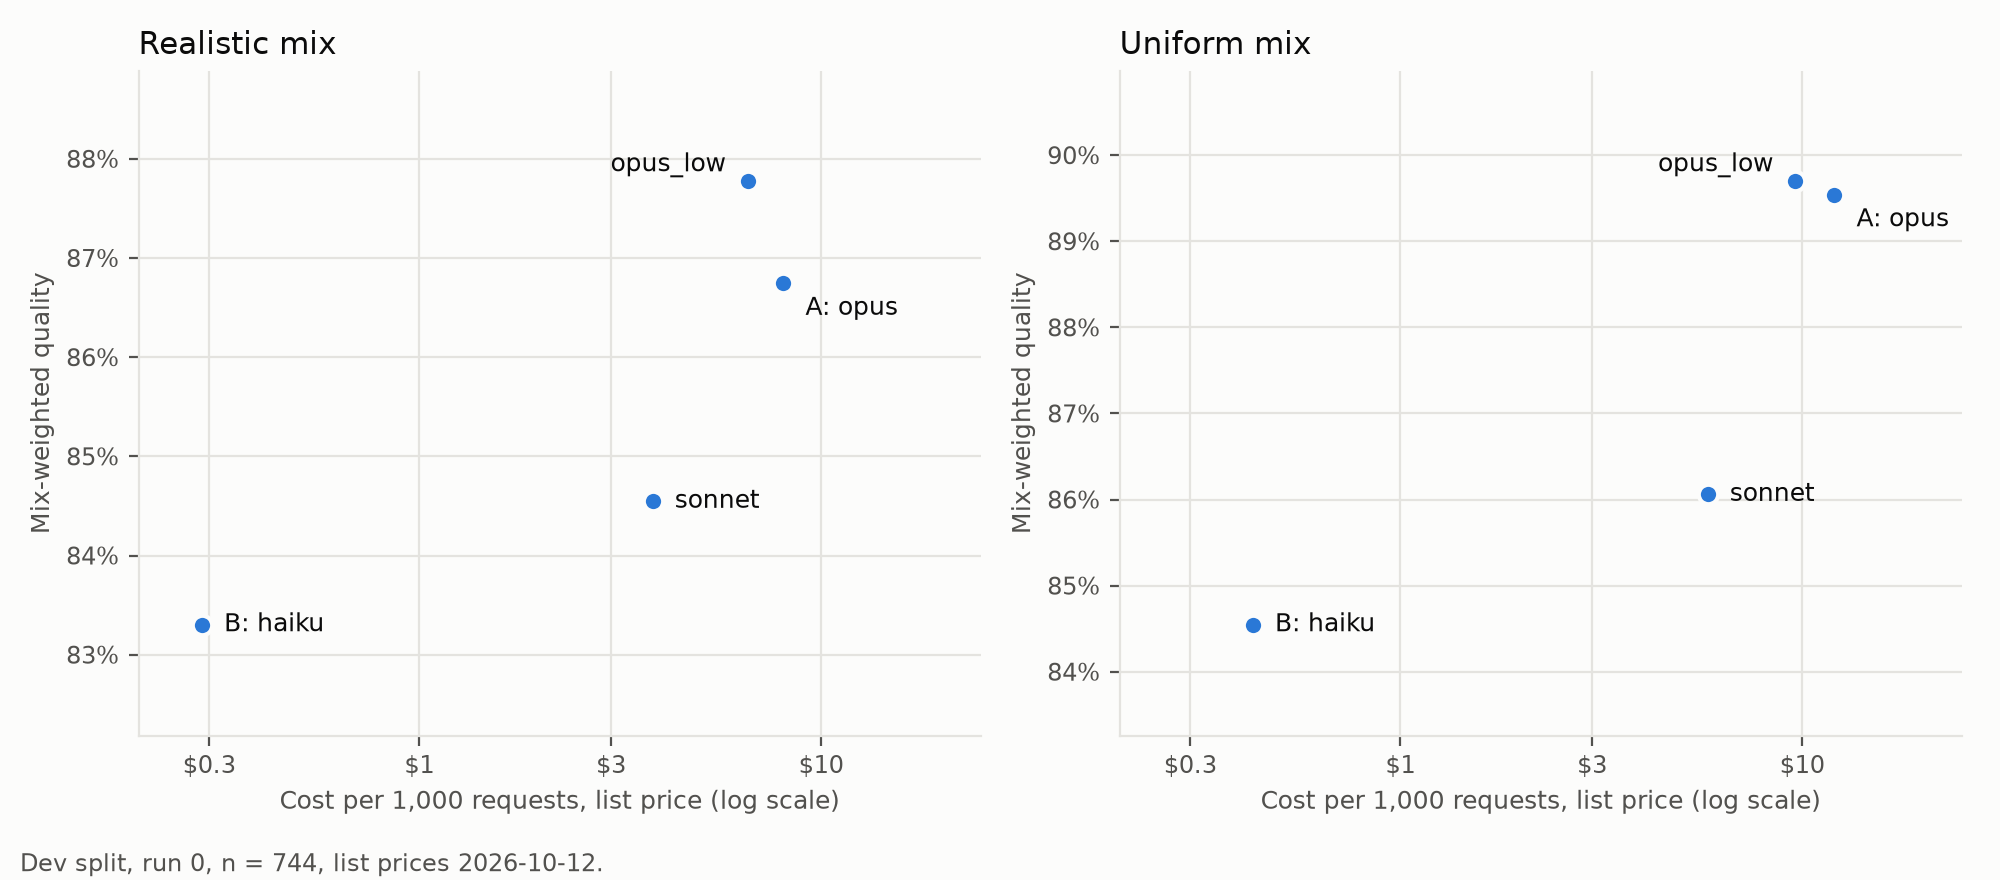
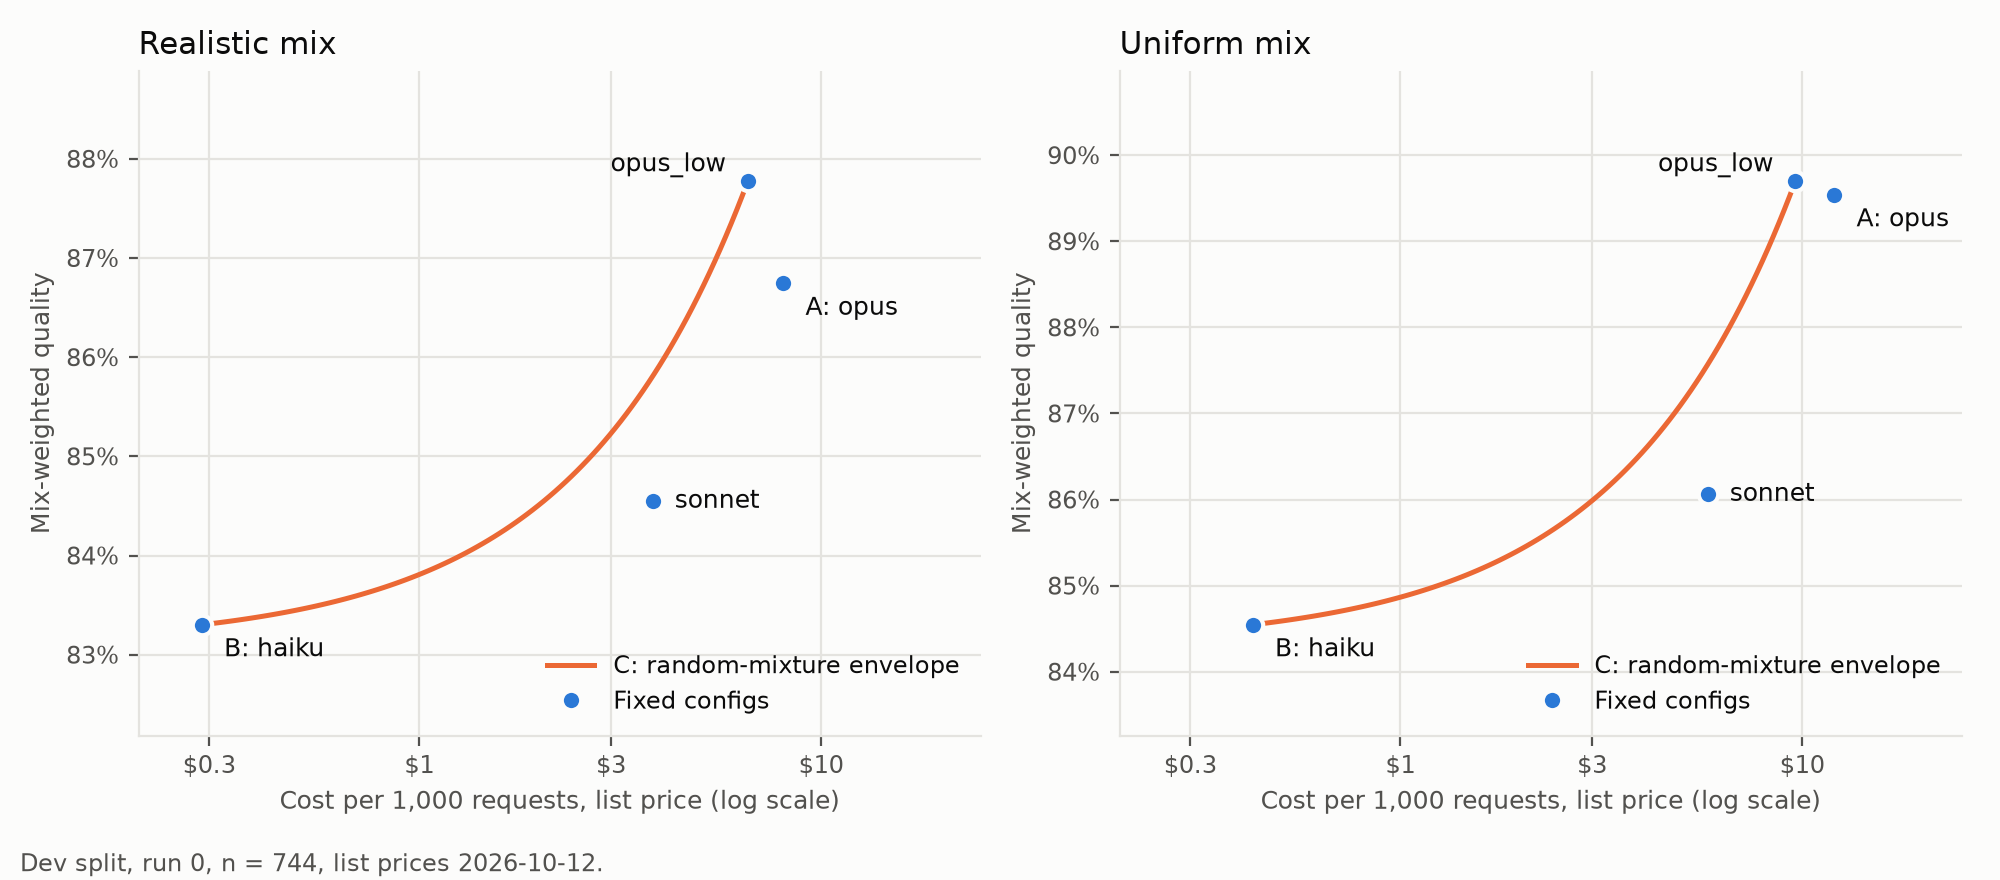
Add the random-mixture envelope (C) to chart v0
Stage 3 · 3 (#5). analysis/references.py adds a reference curve: corners
joined by straight lines in linear cost that answer both ways, the cost of
reaching a quality and the quality reachable at a cost, with n/a (None)
outside the curve's range (Amendment A8, item 7). The hindsight oracle (#6)
is meant to reuse it. A curve refuses corners whose quality or cost doesn't
rise, or that don't each name a config, with CurveError.

`envelope` builds reference C from the fixed-config points under a mix: it
climbs from the cheapest point to the steepest point above, so points below
the hull and points costlier with no higher quality drop out, and exact ties
go to the lower config (A8 item 5). On dev, under both mixes, it is one
segment from haiku to opus_low, with sonnet and opus below it.

The chart draws it as a curve on the log axis, sampled 100 points per
segment, labelled "C: random-mixture envelope" in a legend, and pareto.json
holds its corners per mix. check_simulator adds hand-worked curves, a
four-corner envelope, dropped points, a tie, a round trip, n/a past both
ends, each refusal, and the dev segment.

diff --git a/analysis/check_simulator.py b/analysis/check_simulator.py
@@ -13,7 +13,15 @@ On a synthetic matrix, where the right answer is worked out by hand:
   a config with no stored answer, calls no config or calls one twice, or calls opus on
   a train item (with its own refusal, even where no opus answer is stored), and
   evaluates none of the set;
-- a mix that doesn't weigh exactly the outcomes' tasks is refused.
+- a mix that doesn't weigh exactly the outcomes' tasks is refused;
+- a reference curve gives the cost at a quality and the quality at a cost along the
+  straight lines between its corners, both ends included, and n/a outside its range; it
+  refuses corners whose quality or cost doesn't rise, or that don't each name a config,
+  and the envelope refuses no points;
+- the random-mixture envelope keeps four corners where each config buys less quality
+  per dollar than the one below, drops a config below the hull and one costlier with no
+  higher quality, gives an exact tie's corner to the lower config, returns the starting
+  quality on a round trip, and gives n/a past both ends.
 
 On the dev results matrix:
 
@@ -26,6 +34,8 @@ On the dev results matrix:
 - the config ladder is the order of mean cost per request in every task and both
   mixes, and its per-item inversions and exact cost ties are as Amendment A8 item 5
   gives them;
+- under both mixes the envelope is one segment from haiku to opus_low, with sonnet and
+  opus below it, as Amendment A8 item 7 says;
 - a toy cascade (haiku, climbing to opus on MMLU-Pro and MBPP+) prints its per-task
   totals, each haiku's or opus's quality with the calls and gate it paid for, and its
   per-mix totals, each the mix's weighting of the per-task ones;
@@ -37,7 +47,10 @@ import sys
 from collections import Counter
 from itertools import combinations, pairwise
 
+import numpy as np
+
 from analysis.matrix import LADDER, Matrix, MatrixError, from_store, list_price, read_store
+from analysis.references import Curve, CurveError, envelope
 from analysis.simulator import (
     MixError,
     Total,
@@ -102,6 +115,11 @@ def toy_cascade(matrix: Matrix) -> list[Trace]:
 def same_total(total: Total, quality: float, cost_per_1k: float) -> bool:
     return math.isclose(total.quality, quality, abs_tol=1e-12) and math.isclose(total.cost_per_1k, cost_per_1k,
                                                                                 abs_tol=1e-12)  # fmt: skip
+
+
+def near(answer: float | None, expected: float) -> bool:
+    """A reference's answer is a number close to `expected`, not n/a (None)."""
+    return answer is not None and math.isclose(answer, expected, rel_tol=1e-9)
 
 
 def rounded(total: Total) -> tuple[str, str]:
@@ -181,6 +199,49 @@ def main() -> int:
             "opus on a train item with no opus answer gets the frontier refusal, not the no-stored-answer one",
             says="Amendment A1")  # fmt: skip
 
+    print("\n-- a reference curve, both ways --")
+    # Corners $1 80%, $3 86%, $7 90% per 1k: the first segment climbs 3 points a dollar, the second 1.
+    curve = Curve((Total(0.80, 1), Total(0.86, 3), Total(0.90, 7)), ("haiku", "sonnet", "opus_low"))
+    check(near(curve.cost_at(0.83), 2) and near(curve.cost_at(0.88), 5),
+          "cost at a quality, along the straight line between corners: 83% costs $2 per 1k, 88% costs $5")  # fmt: skip
+    check(near(curve.quality_at(2), 0.83) and near(curve.quality_at(5), 0.88),
+          "quality at a cost: $2 per 1k reaches 83%, $5 reaches 88%")  # fmt: skip
+    check((curve.cost_at(0.80), curve.cost_at(0.90), curve.quality_at(1), curve.quality_at(7)) == (1, 7, 0.80, 0.90),
+          "both ends are in range: the first and last corners answer with each other's coordinate")  # fmt: skip
+    check((curve.cost_at(0.79), curve.cost_at(0.91), curve.quality_at(0.99), curve.quality_at(7.01)) == (None,) * 4,
+          "a query outside the curve's range gives n/a (None), below it and above it, both ways")  # fmt: skip
+    refuses(CurveError, lambda: Curve((Total(0.80, 1), Total(0.86, 3), Total(0.85, 7)), ("haiku", "sonnet", "opus")),
+            "a curve whose quality falls from one corner to the next is refused")  # fmt: skip
+    refuses(CurveError, lambda: Curve((Total(0.80, 1), Total(0.86, 1)), ("haiku", "sonnet")),
+            "a curve whose cost doesn't rise from one corner to the next is refused")  # fmt: skip
+    refuses(CurveError, lambda: Curve((Total(0.80, 1), Total(0.86, 3)), ("haiku",)),
+            "a curve that doesn't name one config per corner is refused")  # fmt: skip
+    refuses(CurveError, lambda: Curve((), ()), "a curve with no corners is refused")
+    refuses(CurveError, lambda: envelope({}), "the envelope of no config points is refused")
+
+    print("\n-- the random-mixture envelope on hand-worked points --")
+    # Each config up the ladder buys less quality per dollar: 6, 2, then 0.5 points per $1 per 1k.
+    bending = {"haiku": Total(0.80, 1), "sonnet": Total(0.86, 2), "opus_low": Total(0.90, 4), "opus": Total(0.92, 8)}
+    check(envelope(bending).configs == LADDER,
+          "four configs whose quality per dollar keeps falling are all corners: a four-corner envelope")  # fmt: skip
+    # Mixing haiku and opus_low half and half costs $3 per 1k for 85%, more than sonnet's 82% at $3.
+    # opus costs more than opus_low for the same 90%.
+    dropped = {"haiku": Total(0.80, 1), "sonnet": Total(0.82, 3), "opus_low": Total(0.90, 5), "opus": Total(0.90, 9)}
+    check(envelope(dropped).configs == ("haiku", "opus_low"),
+          "a config below the hull (sonnet) and one costlier with no higher quality (opus) are both dropped")  # fmt: skip
+    tied = {"sonnet": Total(0.80, 1), "haiku": Total(0.80, 1), "opus": Total(0.90, 5)}
+    check(envelope(tied).configs == ("haiku", "opus"),
+          "two configs at exactly the same point: the corner is the lower one on the ladder (A8 item 5)")  # fmt: skip
+    four_corners = envelope(bending)
+    qualities = [float(quality) for quality in np.linspace(0.80, 0.92, 25)]  # every corner and points between
+    check(all((paid := four_corners.cost_at(quality)) is not None and near(four_corners.quality_at(paid), quality)
+              for quality in qualities),
+          "a round trip, the cost at a quality and then the quality at that cost, returns the starting quality, "
+          "from 80% to 92% in steps of half a point")  # fmt: skip
+    past_ends = (four_corners.cost_at(0.7999), four_corners.cost_at(0.9201), four_corners.quality_at(0.999),
+                 four_corners.quality_at(8.001))  # fmt: skip
+    check(past_ends == (None,) * 4, "the envelope gives n/a below haiku's point and above opus's, both ways")
+
     print("\n-- the dev results matrix --")
     rows = read_store()
     prices = load_models()["prices"]
@@ -233,6 +294,22 @@ def main() -> int:
     check(pairs == A8_TIES and tasks["banking77"] == A8_TIES_BANKING77,
           f"exact cost ties between two configs on one item {dict(pairs)}, {tasks['banking77']} of them on "
           f"Banking77, as in Amendment A8 item 5")  # fmt: skip
+
+    print("\n-- the random-mixture envelope on dev --")
+    for mix in ("uniform", "realistic"):
+        points = {config: totals(fixed[config], mixes[mix]) for config in LADDER}
+        sonnet, opus_low, opus = points["sonnet"], points["opus_low"], points["opus"]
+        on_dev = envelope(points)
+        corners = ", ".join(f"{config} {quality}% ${cost}" for config, (quality, cost)
+                            in zip(on_dev.configs, map(rounded, on_dev.corners)))  # fmt: skip
+        check(on_dev.configs == ("haiku", "opus_low"),
+              f"{mix} mix: one segment, {corners} per 1k, as in Amendment A8 item 7")  # fmt: skip
+        reached = on_dev.quality_at(sonnet.cost_per_1k)
+        check(reached is not None and reached > sonnet.quality,
+              f"{mix} mix: sonnet falls below it: at sonnet's ${sonnet.cost_per_1k:.2f} per 1k the envelope reaches "
+              f"{100 * (reached or 0):.1f}%, sonnet {100 * sonnet.quality:.1f}%")  # fmt: skip
+        check(opus.cost_per_1k > opus_low.cost_per_1k and opus.quality < opus_low.quality,
+              f"{mix} mix: opus falls below it, costing more than opus_low for less quality")  # fmt: skip
 
     print("\n-- a toy cascade on dev --")
     outcomes = simulate(dev, toy_cascade(dev))

diff --git a/analysis/pareto.py b/analysis/pareto.py
@@ -3,22 +3,26 @@
 Run from the project root:  uv run python -m analysis.pareto
 
 Evaluates the four fixed configs as policies through the simulator, on dev (run 0),
-and totals them under both task mixes. Prints the totals and draws the headline
-figure: a realistic and a uniform panel, cost per 1,000 requests at list price on a
-log x-axis and mix-weighted quality on y. Writes figures/pareto.png and, with every
-plotted number, figures/pareto.json. Both are committed and overwritten as later
-stages add to the chart.
+and totals them under both task mixes, with reference C, the random-mixture envelope
+of their points (Amendment A8, item 7). Prints the totals and the envelope's corners
+and draws the headline figure: a realistic and a uniform panel, cost per 1,000
+requests at list price on a log x-axis and mix-weighted quality on y. Writes
+figures/pareto.png and, with every plotted number, figures/pareto.json. Both are
+committed and overwritten as later stages add to the chart.
 """
 
 import json
 import sys
 from dataclasses import asdict
+from itertools import pairwise
 from pathlib import Path
 
+import numpy as np
 from matplotlib.figure import Figure
 from matplotlib.ticker import FixedLocator, FuncFormatter, NullLocator, PercentFormatter
 
 from analysis.matrix import LADDER, Matrix, load
+from analysis.references import Curve, envelope
 from analysis.simulator import Total, always, load_mixes, simulate, totals
 from harness.client import PROJECT_ROOT, load_models
 from harness.run_pilot import print_table
@@ -27,11 +31,14 @@ FIGURES = PROJECT_ROOT / "figures"
 FIGURE, FIGURE_DATA = FIGURES / "pareto.png", FIGURES / "pareto.json"  # the headline figure and its plotted numbers
 PANELS = ("realistic", "uniform")
 LABELS = {"haiku": "B: haiku", "sonnet": "sonnet", "opus_low": "opus_low", "opus": "A: opus"}
-# Label offsets in points, so opus_low and opus, close together on both axes, don't collide.
-OFFSETS = {"haiku": (8, 0, "left"), "sonnet": (8, 0, "left"), "opus_low": (-8, 6, "right"), "opus": (8, -9, "left")}
+# Label offsets in points, so opus_low and opus, close together on both axes, don't collide, and haiku's label sits
+# below the envelope, which leaves haiku's point rising to the right.
+OFFSETS = {"haiku": (8, -9, "left"), "sonnet": (8, 0, "left"), "opus_low": (-8, 6, "right"), "opus": (8, -9, "left")}
 
-# The data-viz reference palette's light surface and inks; the config points are series 1.
-SURFACE, INK, INK_SECONDARY, GRID, SERIES_1 = "#fcfcfb", "#0b0b0b", "#52514e", "#e4e3df", "#2a78d6"
+# The data-viz reference palette's light surface and inks; the config points are series 1, the envelope series 2.
+SURFACE, INK, INK_SECONDARY, GRID = "#fcfcfb", "#0b0b0b", "#52514e", "#e4e3df"
+SERIES_1, SERIES_2 = "#2a78d6", "#eb6834"
+ENVELOPE_LABEL = "C: random-mixture envelope"
 
 
 def config_points(dev: Matrix, mixes: dict) -> dict[str, dict[str, Total]]:
@@ -40,13 +47,26 @@ def config_points(dev: Matrix, mixes: dict) -> dict[str, dict[str, Total]]:
     return {mix: {config: totals(outcomes[config], mixes[mix]) for config in LADDER} for mix in PANELS}
 
 
-def draw(points: dict[str, dict[str, Total]], caption: str, path: Path) -> None:
+def sampled(curve: Curve) -> tuple[list[float], list[float | None]]:
+    """Points along a reference curve for the log cost axis, where its straight segments in linear cost bend.
+
+    Each segment gets 100 evenly spaced samples on the log axis, so a short one is drawn as finely as a long one.
+    """
+    costs = [curve.corners[0].cost_per_1k]
+    for low, high in pairwise(curve.corners):
+        costs += [float(cost) for cost in np.geomspace(low.cost_per_1k, high.cost_per_1k, 100)[1:]]
+    return costs, [curve.quality_at(cost) for cost in costs]
+
+
+def draw(points: dict[str, dict[str, Total]], envelopes: dict[str, Curve], caption: str, path: Path) -> None:
     fig = Figure(figsize=(10, 4.4), dpi=200, facecolor=SURFACE)
     for ax, mix in zip(fig.subplots(1, 2), PANELS):
         ax.set_facecolor(SURFACE)
+        ax.plot(*sampled(envelopes[mix]), color=SERIES_2, linewidth=1.8, zorder=2, label=ENVELOPE_LABEL)
+        ax.plot([total.cost_per_1k for total in points[mix].values()], [total.quality for total in points[mix].values()],
+                "o", markersize=7, color=SERIES_1, markeredgecolor=SURFACE, markeredgewidth=1.5, zorder=3,
+                label="Fixed configs")  # fmt: skip
         for config, total in points[mix].items():
-            ax.plot(total.cost_per_1k, total.quality, "o", markersize=7, color=SERIES_1, markeredgecolor=SURFACE,
-                    markeredgewidth=1.5, zorder=3)  # fmt: skip
             dx, dy, ha = OFFSETS[config]
             ax.annotate(LABELS[config], (total.cost_per_1k, total.quality), xytext=(dx, dy), textcoords="offset points",
                         ha=ha, va="center", fontsize=9, color=INK)  # fmt: skip
@@ -67,6 +87,7 @@ def draw(points: dict[str, dict[str, Total]], caption: str, path: Path) -> None:
             ax.spines[side].set_visible(False)
         for side in ("left", "bottom"):
             ax.spines[side].set_color(GRID)
+        ax.legend(loc="lower right", frameon=False, fontsize=8.5, labelcolor=INK)
     fig.text(0.01, 0.01, caption, fontsize=8.5, color=INK_SECONDARY)
     fig.tight_layout(rect=(0, 0.04, 1, 1))
     fig.savefig(path, facecolor=SURFACE)
@@ -76,23 +97,31 @@ def main() -> int:
     dev = load().split("dev")
     snapshot = load_models()["price_snapshot"]
     points = config_points(dev, load_mixes())
+    envelopes = {mix: envelope(points[mix]) for mix in PANELS}
     basis = f"run 0, n = {len(dev.items)}, list prices {snapshot}"
 
     print(f"Fixed configs on dev ({basis}): quality, $ per 1,000 requests")
     rows = [[LABELS[c]] + [f"{100 * points[m][c].quality:.1f}%  ${points[m][c].cost_per_1k:.2f}" for m in PANELS]
             for c in LADDER]  # fmt: skip
     print_table(["config"] + list(PANELS), rows)
+    for mix, curve in envelopes.items():
+        corners = ", ".join(f"{config} ({100 * total.quality:.1f}%, ${total.cost_per_1k:.2f})"
+                            for config, total in zip(curve.configs, curve.corners))  # fmt: skip
+        print(f"{ENVELOPE_LABEL}, {mix} mix: {corners}")
 
     units = {
         "quality": "mix-weighted share of items answered correctly, 0 to 1",
         "cost_per_1k": "mix-weighted dollars per 1,000 requests, at list price",
+        "envelope": "the envelope's corners, cheapest first, joined by straight lines in linear cost",
     }
-    panels = {mix: {"configs": {c: asdict(t) for c, t in points[mix].items()}} for mix in PANELS}
+    panels = {mix: {"configs": {c: asdict(t) for c, t in points[mix].items()},
+                    "envelope": {c: asdict(t) for c, t in zip(envelopes[mix].configs, envelopes[mix].corners)}}
+              for mix in PANELS}  # fmt: skip
     data = {"figure": FIGURE.name, "built_by": "analysis/pareto.py", "split": "dev", "run": 0, "n": len(dev.items),
             "price_snapshot": snapshot, "units": units, "panels": panels}  # fmt: skip
     FIGURES.mkdir(exist_ok=True)
     FIGURE_DATA.write_text(json.dumps(data, indent=2) + "\n")
-    draw(points, f"Dev split, {basis}.", FIGURE)
+    draw(points, envelopes, f"Dev split, {basis}.", FIGURE)
     print(f"\nWrote {FIGURE.relative_to(PROJECT_ROOT)} and {FIGURE_DATA.relative_to(PROJECT_ROOT)}")
     return 0
 

diff --git a/analysis/references.py b/analysis/references.py
@@ -1,0 +1,80 @@
+"""Reference curves (PLAN_v4.md §7; Amendment A8, item 7).
+
+A reference curve is a set of corners, each a quality and a cost per 1,000 requests,
+joined by straight lines in linear cost. It answers both ways: the cost of reaching a
+quality, for the captured fraction, and the quality reachable at a cost, for comparisons
+at matched cost. A query outside the curve's range gives n/a, returned as None.
+"""
+
+from dataclasses import dataclass
+from itertools import pairwise
+
+import numpy as np
+
+from analysis.matrix import LADDER
+from analysis.simulator import Total
+
+
+class CurveError(ValueError):
+    """Corners that don't make a reference curve. No curve is built."""
+
+
+@dataclass(frozen=True)
+class Curve:
+    corners: tuple[Total, ...]  # cheapest first; quality and cost both rise from corner to corner
+    configs: tuple[str, ...]  # the config at each corner
+
+    def __post_init__(self) -> None:
+        # Interpolation assumes rising corners and doesn't check, so a bad curve would answer wrongly, not fail.
+        if not self.corners:
+            raise CurveError("a curve needs at least one corner")
+        if len(self.configs) != len(self.corners):
+            raise CurveError(f"the curve has {len(self.corners)} corners but names {len(self.configs)} configs "
+                             f"{self.configs}")  # fmt: skip
+        for (low, high), (lower, higher) in zip(pairwise(self.corners), pairwise(self.configs)):
+            if not (low.quality < high.quality and low.cost_per_1k < high.cost_per_1k):
+                raise CurveError(f"quality and cost must both rise from corner to corner, but {lower} is at {low} "
+                                 f"and {higher} at {high}")  # fmt: skip
+
+    def cost_at(self, quality: float) -> float | None:
+        """Dollars per 1,000 requests to reach `quality`, or None outside the curve's qualities."""
+        return _along([c.quality for c in self.corners], [c.cost_per_1k for c in self.corners], quality)
+
+    def quality_at(self, cost_per_1k: float) -> float | None:
+        """The quality reachable at `cost_per_1k`, or None outside the curve's costs."""
+        return _along([c.cost_per_1k for c in self.corners], [c.quality for c in self.corners], cost_per_1k)
+
+
+def _along(xs: list[float], ys: list[float], x: float) -> float | None:
+    """y at x on the straight lines through the points (xs, ys), xs rising; None outside xs's range."""
+    if not xs[0] <= x <= xs[-1]:
+        return None
+    return float(np.interp(x, xs, ys))
+
+
+def _rise(low: Total, high: Total) -> float:
+    """Quality gained per dollar per 1k, from one point to a costlier one."""
+    return (high.quality - low.quality) / (high.cost_per_1k - low.cost_per_1k)
+
+
+def envelope(points: dict[str, Total]) -> Curve:
+    """Reference C, the random-mixture envelope of the fixed-config points under one mix.
+
+    The upper concave hull of the points in linear cost, since mixing two configs at fixed
+    odds traces the straight line between them. It starts at the cheapest point and climbs,
+    each time to the point above with the steepest rise in quality per dollar, so points
+    below the hull and points costlier with no higher quality drop out. It ends at its
+    highest-quality corner.
+    """
+    if not points:
+        raise CurveError("the envelope needs at least one config point")
+    # Cheapest first, then the higher quality; exact ties go to the lower config (Amendment A8, item 5).
+    # Every point above a corner then costs more than it, so a rise never divides by zero.
+    order = sorted(points, key=lambda config: (points[config].cost_per_1k, -points[config].quality,
+                                               LADDER.index(config)))  # fmt: skip
+    configs = [order[0]]
+    while above := [config for config in order if points[config].quality > points[configs[-1]].quality]:
+        here = points[configs[-1]]
+        # Of points equally steep, the farthest: the nearer lies on the line, not at a corner.
+        configs.append(max(above, key=lambda config: (_rise(here, points[config]), points[config].cost_per_1k)))
+    return Curve(tuple(points[config] for config in configs), tuple(configs))
